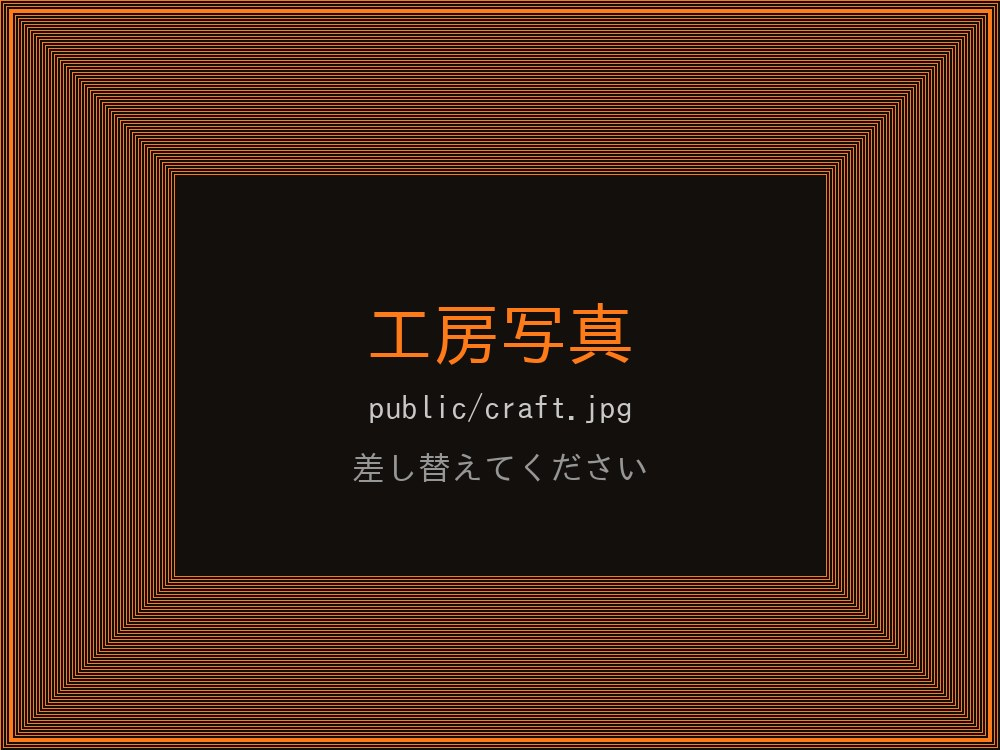
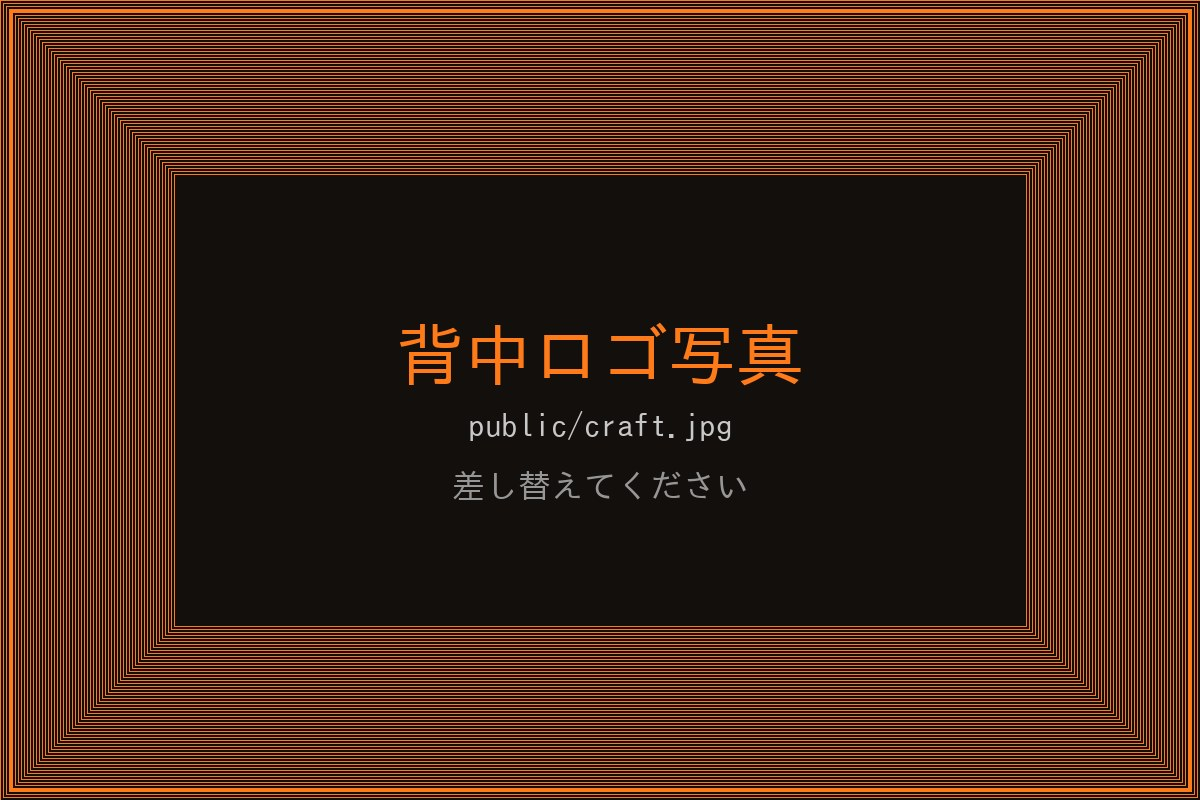
ヒーロー背景の追加とマッピング修正、明度調整
- ヒーローに背景写真レイヤー hero-bg.jpg（溶接作業）を配線（未配置時はグラデにフォールバック）
- ヒーロー背景を暖色系で少し明るめに調整
- 職人の誇り(Craft)は背中ロゴ写真に変更（craft.jpg のプレースホルダーを差し替え）
- バナーは写真を割り当てず、グラデーション演出に戻す

Claude-Session: https://claude.ai/code/session_01Wr9bpUDLcKYucEUjE5doxu

diff --git a/app/globals.css b/app/globals.css
@@ -58,7 +58,13 @@ header{position:sticky;top:0;z-index:50;background:rgba(10,10,10,.82);backdrop-f
 
 /* Hero */
 .hero{position:relative;overflow:hidden;padding:80px 0 84px;
-  background:radial-gradient(900px 500px at 50% -5%,rgba(255,122,24,.22),transparent 60%),radial-gradient(600px 400px at 85% 30%,rgba(232,93,4,.12),transparent 60%),linear-gradient(180deg,#0d0d0d,#0a0a0a)}
+  background:linear-gradient(180deg,#141210,#0d0c0b)}
+.hero::before{content:"";position:absolute;inset:0;z-index:0;pointer-events:none;
+  background:
+    linear-gradient(180deg,rgba(14,13,12,.42),rgba(12,11,10,.58)),
+    radial-gradient(900px 500px at 50% -5%,rgba(255,122,24,.20),transparent 60%),
+    radial-gradient(600px 400px at 85% 30%,rgba(232,93,4,.12),transparent 60%),
+    url(/hero-bg.jpg) center/cover no-repeat}
 .spark{position:absolute;width:3px;height:3px;border-radius:50%;background:var(--ember);box-shadow:0 0 8px var(--orange);opacity:0;animation:rise 6s linear infinite}
 @keyframes rise{0%{transform:translateY(40px) scale(.6);opacity:0}15%{opacity:1}100%{transform:translateY(-260px) scale(0);opacity:0}}
 .hero-grid{display:grid;grid-template-columns:1.05fr .95fr;gap:12px;align-items:center;position:relative;z-index:1;overflow:visible}
@@ -169,11 +175,10 @@ table.profile th{width:32%;color:var(--ink-soft);font-weight:700;white-space:now
 }
 
 /* Banner (atmosphere) */
-.banner{position:relative;overflow:hidden;text-align:center;padding:104px 0;background:#0b0a09}
-.banner::before{content:"";position:absolute;inset:0;z-index:0;
-  background-image:url(/banner.jpg);background-size:cover;background-position:center 42%;opacity:.55}
-.banner-overlay{position:absolute;inset:0;z-index:0;pointer-events:none;
-  background:linear-gradient(180deg,rgba(10,10,10,.55),rgba(10,10,10,.78)),radial-gradient(760px 400px at 50% 20%,rgba(255,122,24,.20),transparent 62%),radial-gradient(500px 300px at 82% 80%,rgba(232,93,4,.12),transparent 60%)}
+.banner{position:relative;overflow:hidden;text-align:center;padding:104px 0;
+  background:linear-gradient(180deg,#0f0d0b,#0a0a0a)}
+.banner-overlay{position:absolute;inset:0;pointer-events:none;
+  background:radial-gradient(760px 400px at 50% 20%,rgba(255,122,24,.20),transparent 62%),radial-gradient(500px 300px at 82% 80%,rgba(232,93,4,.12),transparent 60%)}
 .banner-inner{position:relative;z-index:1}
 .banner .kicker{font-family:var(--font-oswald),sans-serif;font-size:14px;font-weight:700;letter-spacing:.22em;color:var(--orange);text-transform:uppercase}
 .banner h2{font-size:clamp(26px,4vw,40px);font-weight:900;line-height:1.45;margin:10px 0 14px}